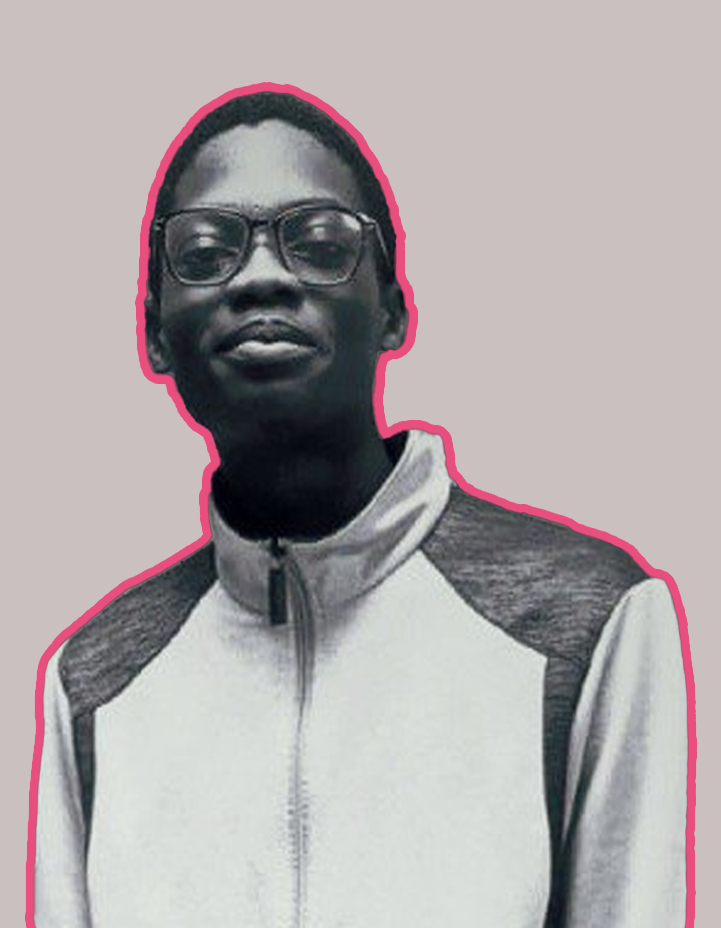
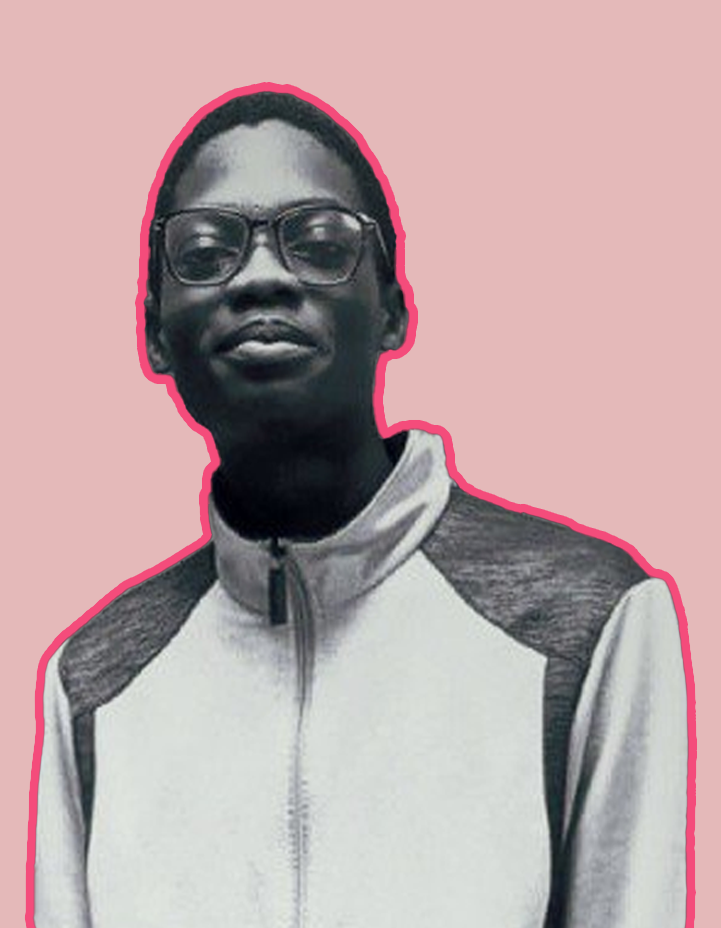
ux

diff --git a/index.html b/index.html
@@ -142,7 +142,7 @@
     <!--services-->
     <div id="services"  class="fade-in">
         <div class="container">
-            <h1 class="sub-title">My Services</h1>
+            <h1 class="sub-title">Tools</h1>
             <div class="services-list">
                 <div>
                     <i class="fa-solid fa-code"></i>
@@ -171,7 +171,7 @@
     <!--portfolio-->
     <div id="portfolio"  class="fade-in">
         <div class="container">
-            <h1 class="sub-title">My Work</h1>
+            <h1 class="sub-title">Projects</h1>
             <div class="work-list">
                 <div class="work">
                     <img src="images/work-1.jpg" alt="">

diff --git a/style.css b/style.css
@@ -45,7 +45,7 @@ html{
   
   /* Light mode overrides */
 body.light-mode {
-    --bg-color: #e4dede;
+    --bg-color: #e4b9b9;
     --text-color: #000;
     --accent-color: #ff004f; /* Keeping accent the same or adjust as needed */
     --container-bg: #f0f0f0;
